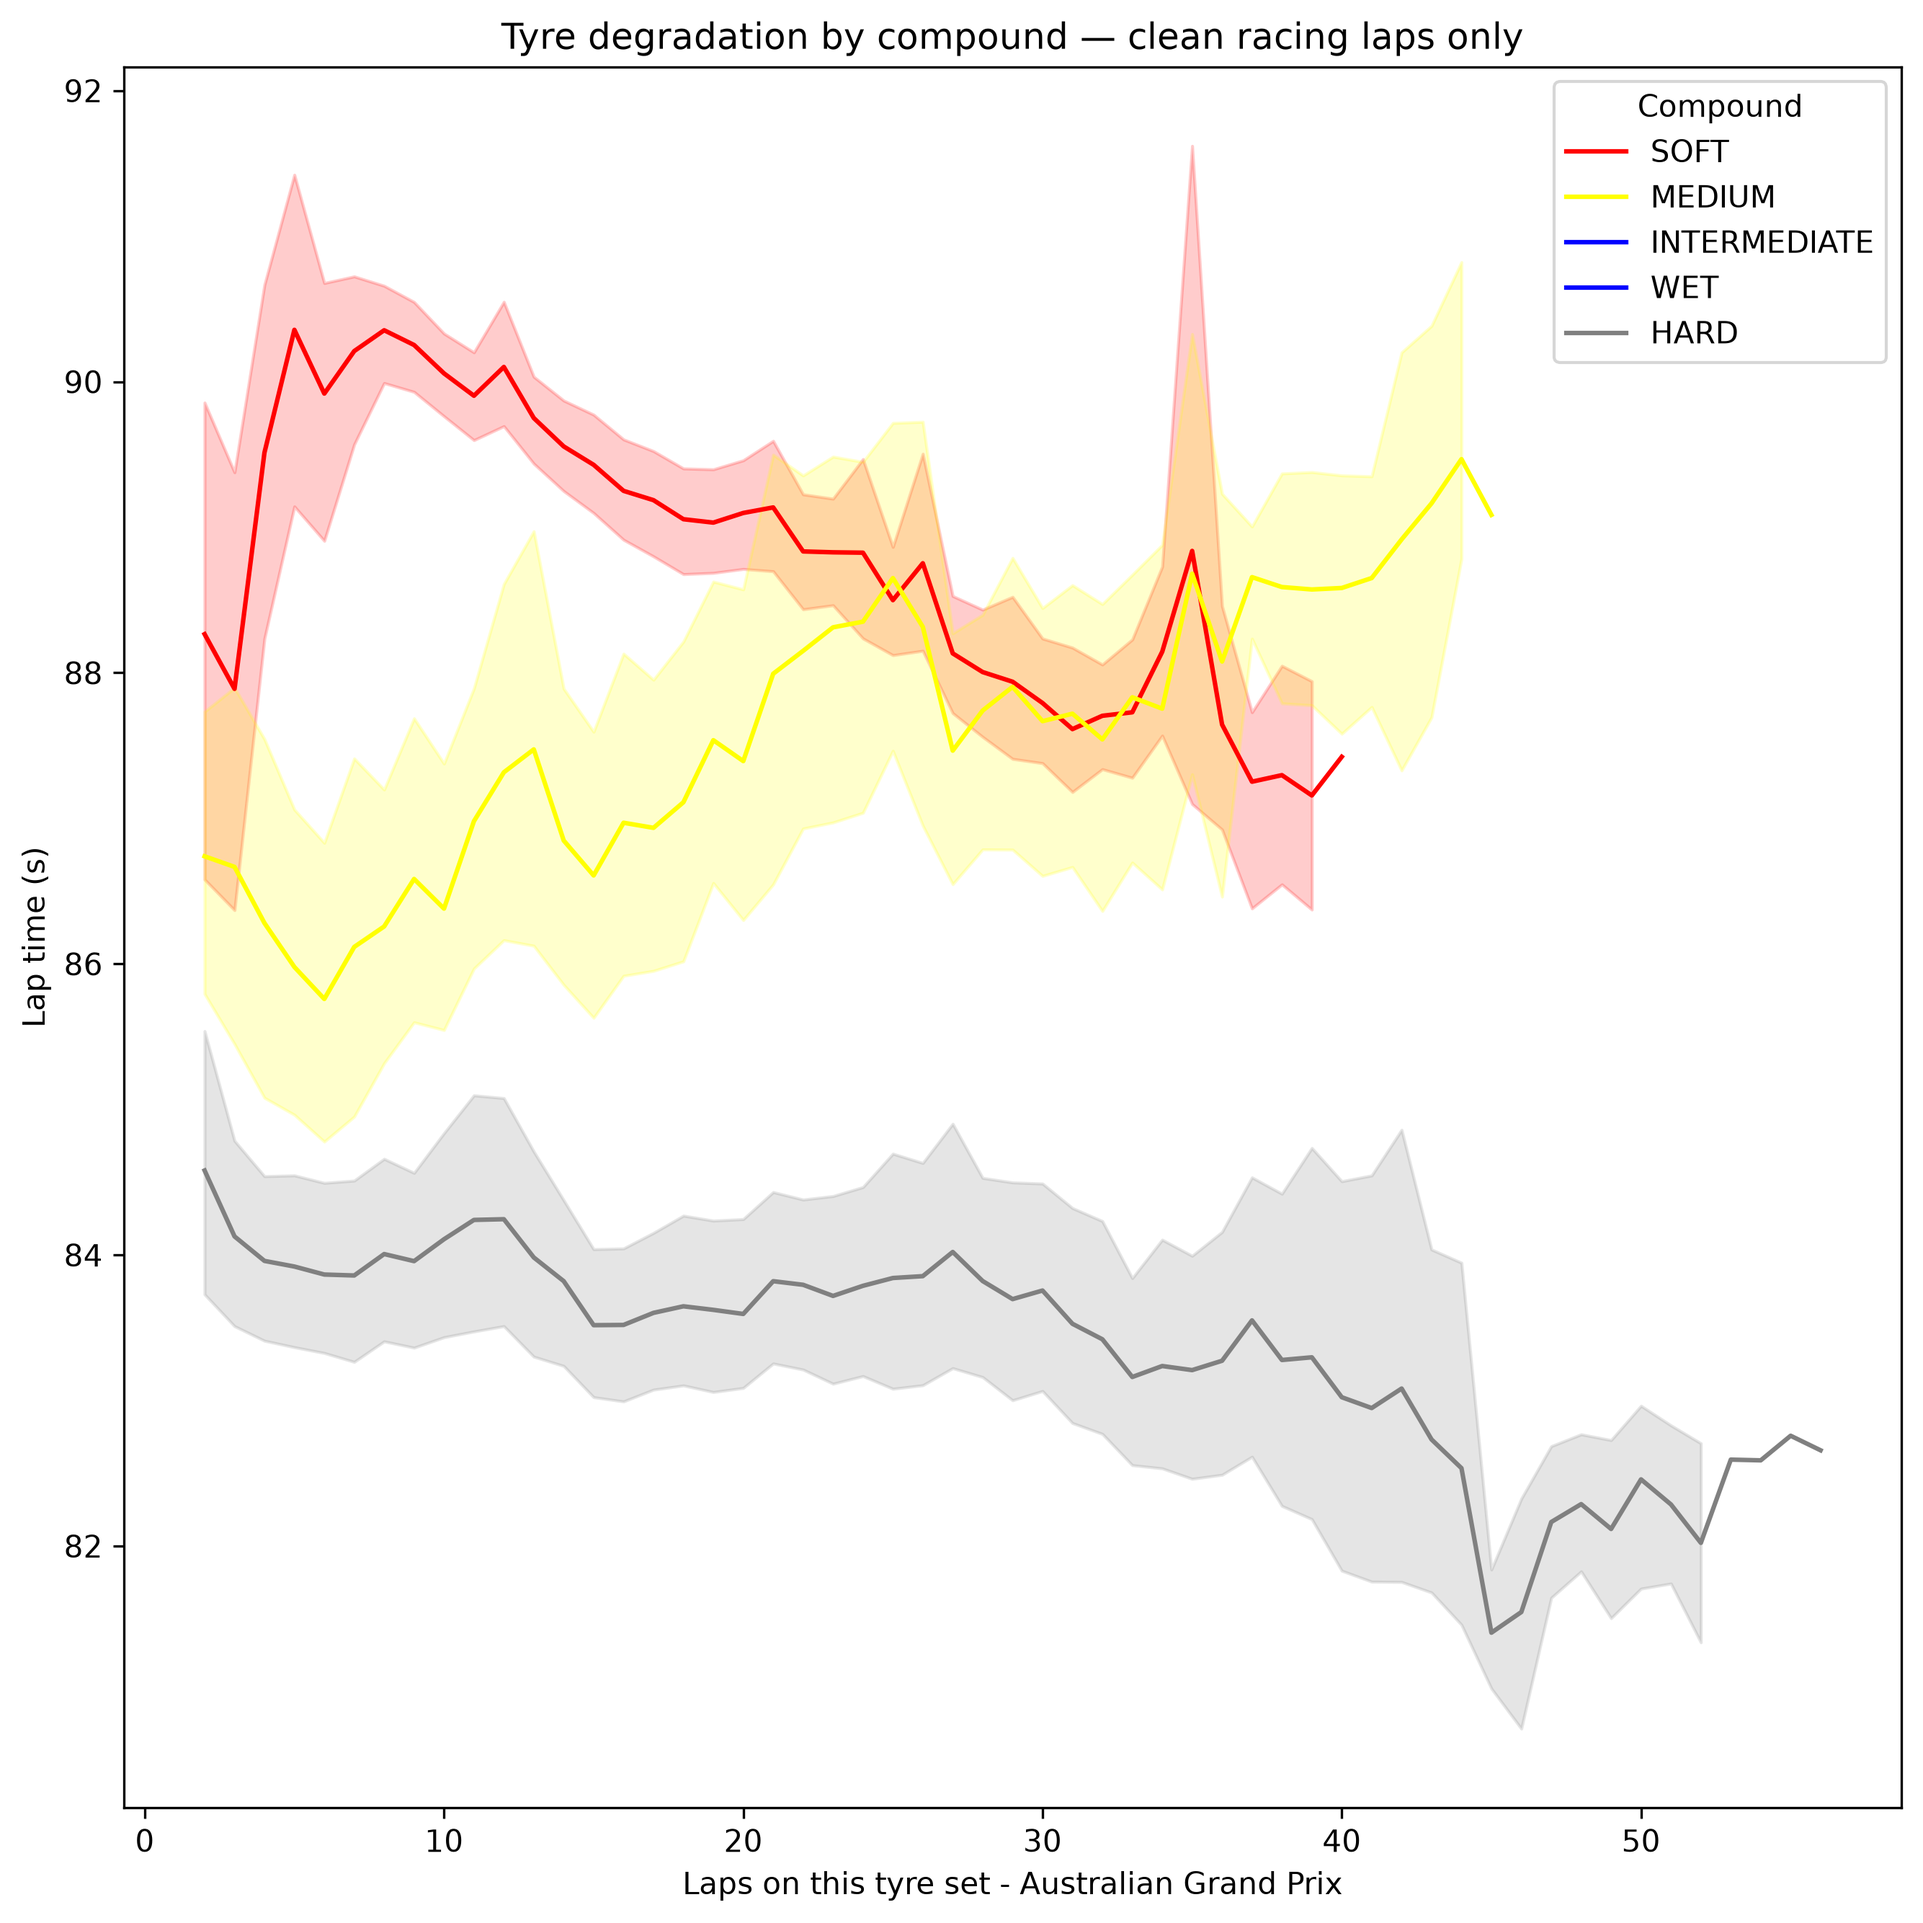
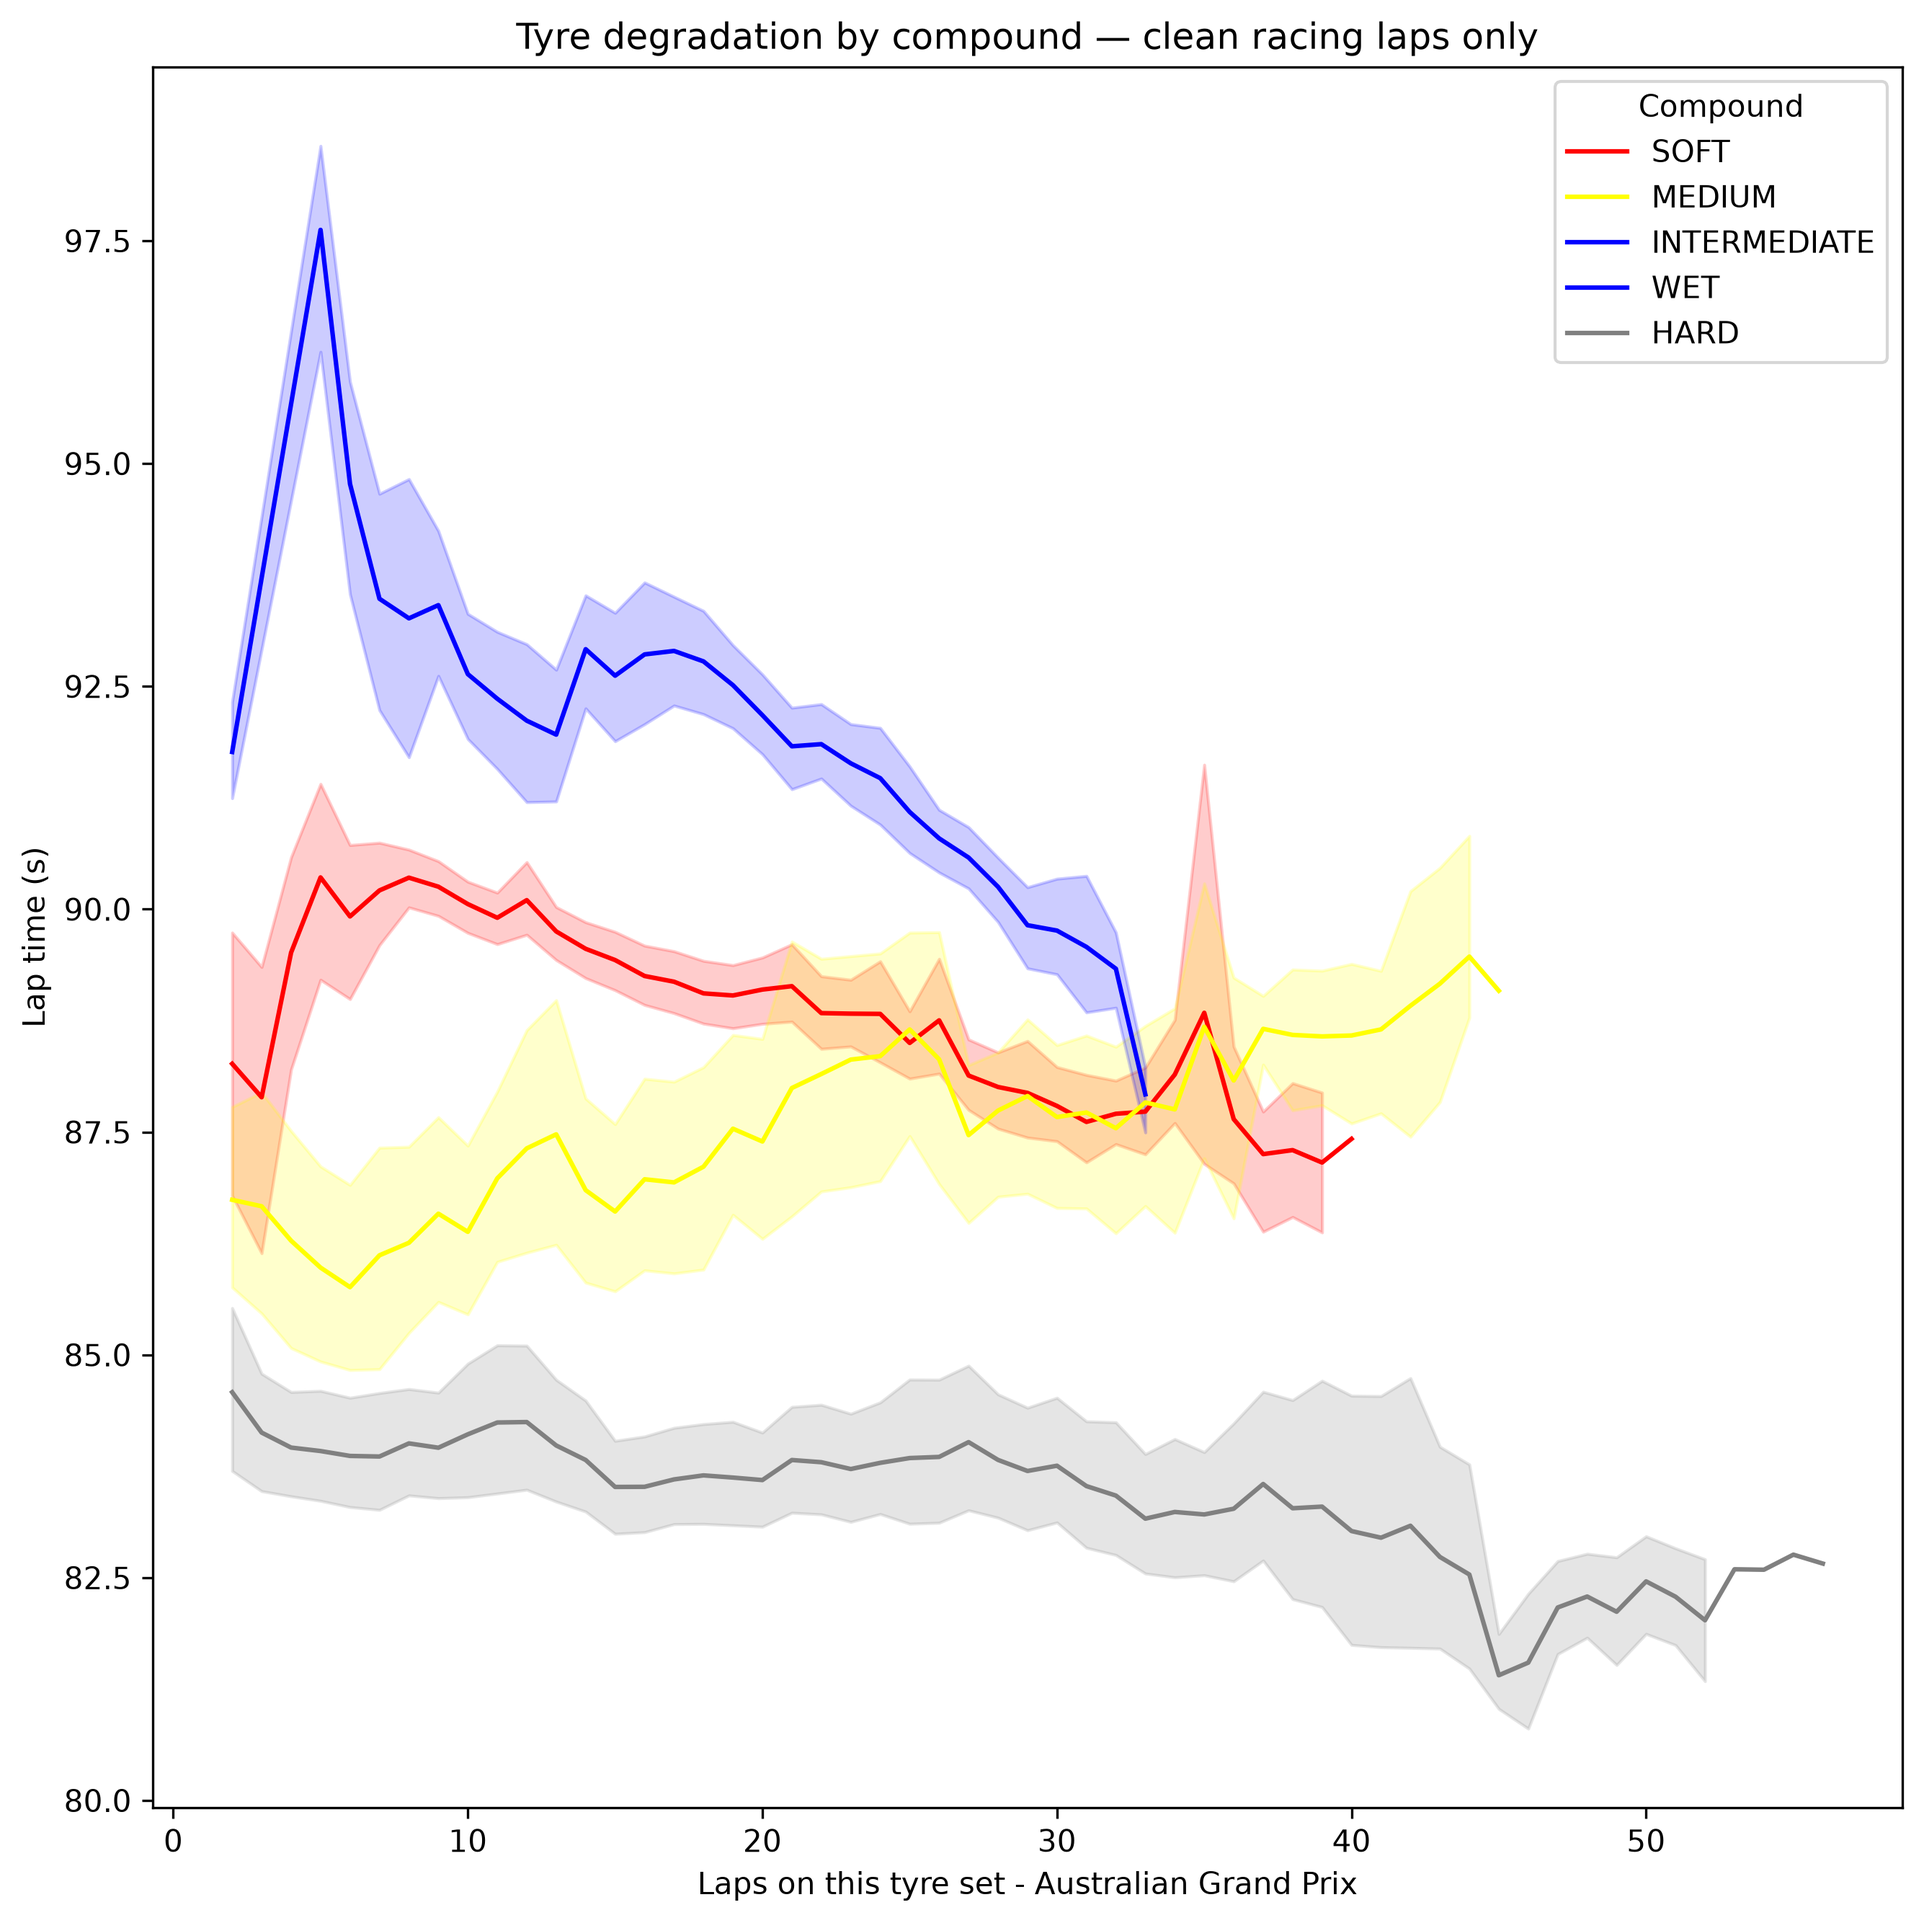
added tyre_deg plots -useless though

diff --git a/F1-Project/plot.py b/F1-Project/plot.py
@@ -67,7 +67,7 @@ def tyre_deg(filename,show=False, path='all'):
     file = pd.read_csv(os.path.join(path,filename) + '.csv')
     anomalous = file[['IsSC','IsVSC','IsInLap','IsOutLap','IsRestartLap']].any(axis=1)
     clean = file[file['IsAccurate'] & ~anomalous] #make sure we're not adding laps laps that are affected by outside features like pit stops & safety cars
-    clean = clean[clean['Compound'].isin(['SOFT','MEDIUM','HARD'])]
+    clean = clean[clean['Compound'].isin(['SOFT','MEDIUM','INTERMEDIATE','WET','HARD'])]
 
     plt.figure(num='Degradation', figsize=(9, 9))
     sns.lineplot(data=clean, x='TyreLife', y='LapTime',
